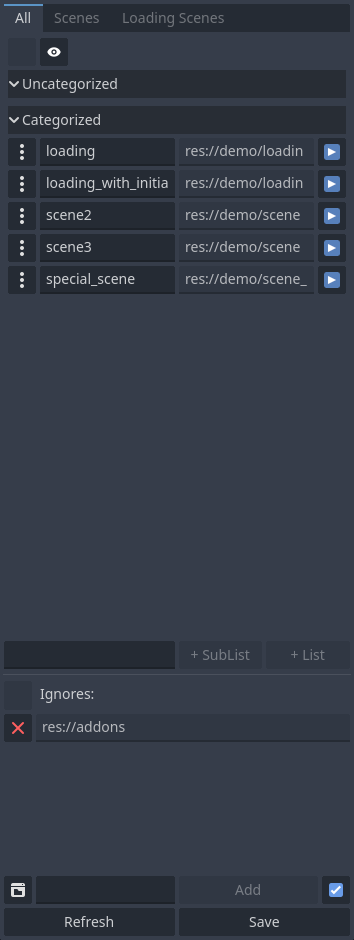
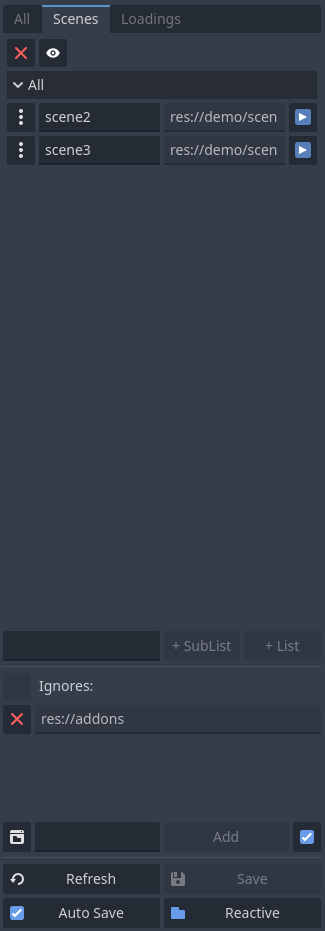
📖 docs: v3.10.0

diff --git a/README.md b/README.md
@@ -15,6 +15,8 @@ Scene Manager v3.X.X is compatible with Godot 4.
 **Recently Added**:
 
 * [X] Pause and Resume functions added
+* [X] Reactive button added which makes the `Scene Manager UI` reactive to changes on `File System` of godot and refreshes the `Scene Manager UI` automatically every time an update happens on files in `res://` location
+* [X] Auto Save button added which saves automatically every time a new change found in `Scene Manager UI` + If Reactive is enabled too, after that mechanism, save gets called automatically so that there would be no need to use the save button at all
 
 **All**:
 

diff --git a/CHANGELOG.rst b/CHANGELOG.rst
@@ -4,9 +4,14 @@ CHANGELOG
 UNRELEASED
 ----------
 
+
+3.10.0 (2024-07-06)
+------------------
+
 * 🎉 feat: added auto save + reactive buttons and fully tested
 * 🐛 fix: #23 + refactoring + some half implemented features
 * 🐛 fix: #27 Free current scene instead of last node of the tree
+
 3.9.0 (2024-05-22)
 ------------------
 
